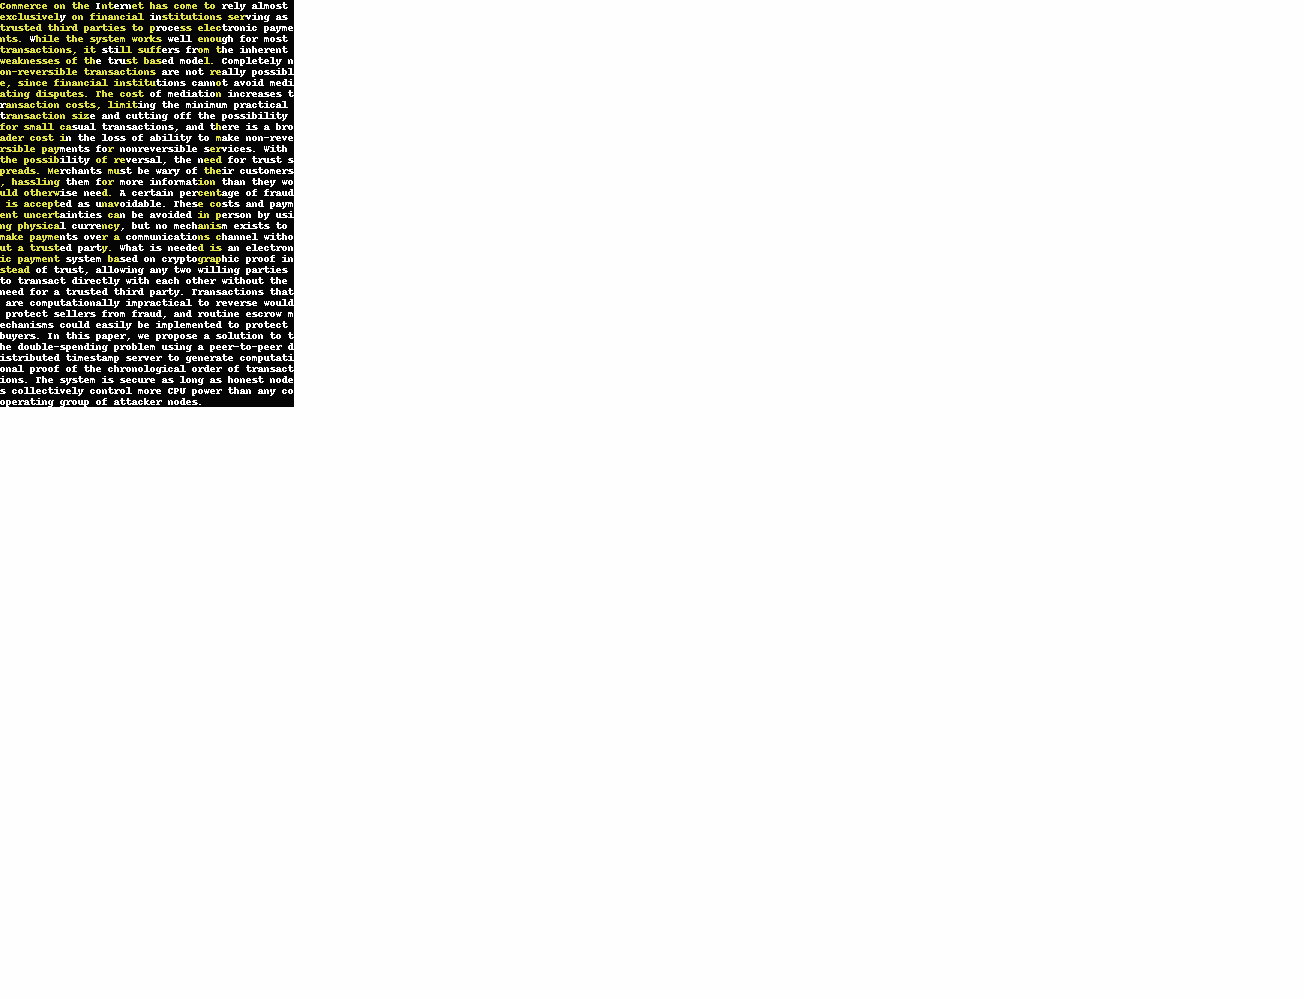
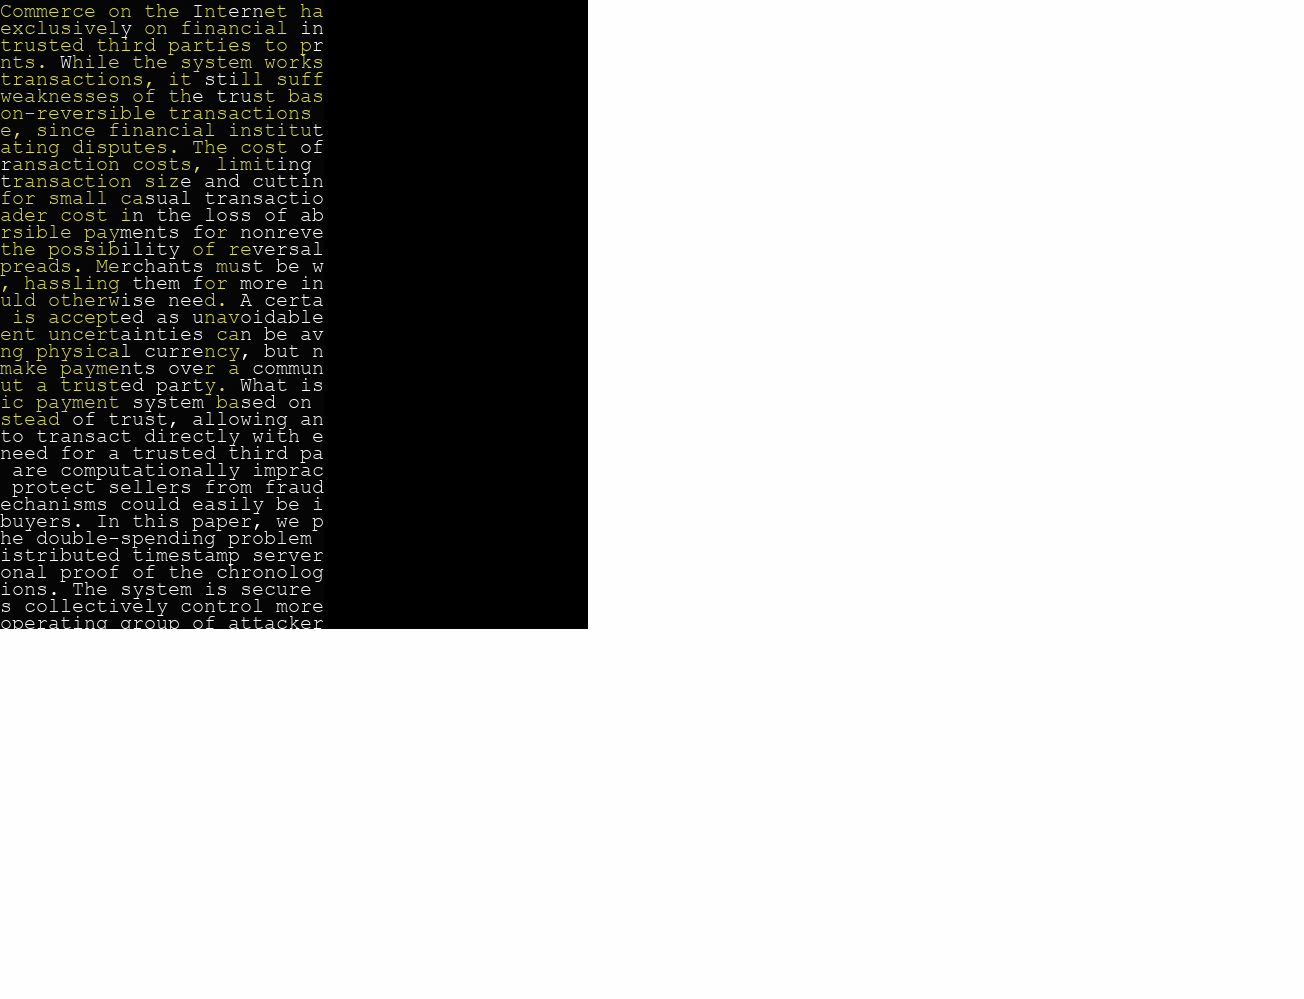
fonts kind of working but might have broken many things

Changed region(s): [[0.0, 0.0, 0.4601, 0.6517]]

diff --git a/text_image.py b/text_image.py
@@ -32,7 +32,7 @@ def text_image(lines, colors, highlight_cords, font_path = None):
     
     fill = " o "
     x = 0
-    w_fill, y = draw.textsize(fill)
+    w_fill, y = draw.textsize(fill, font)
     
     line_num = 0
     for line_num in range(len(lines)):
@@ -42,7 +42,7 @@ def text_image(lines, colors, highlight_cords, font_path = None):
         
         for letter_num in range(len(line)):
             letter = line[letter_num]
-            w_full = draw.textsize(fill + letter)[0]
+            w_full = draw.textsize(fill + letter, font)[0]
             w = w_full - w_fill     # the width of the character on its own
             
             letter_cords = [line_num, letter_num]
@@ -51,7 +51,7 @@ def text_image(lines, colors, highlight_cords, font_path = None):
             else:
                 color = colors['default_text']
     
-            draw.text((x_draw, y * line_num), fill + letter, color)
+            draw.text((x_draw, y * line_num), fill + letter, color, font = font)
         
             iletter = image.crop((x_draw + w_fill, 0, x_draw + w_full, y * len(lines) ))
             
